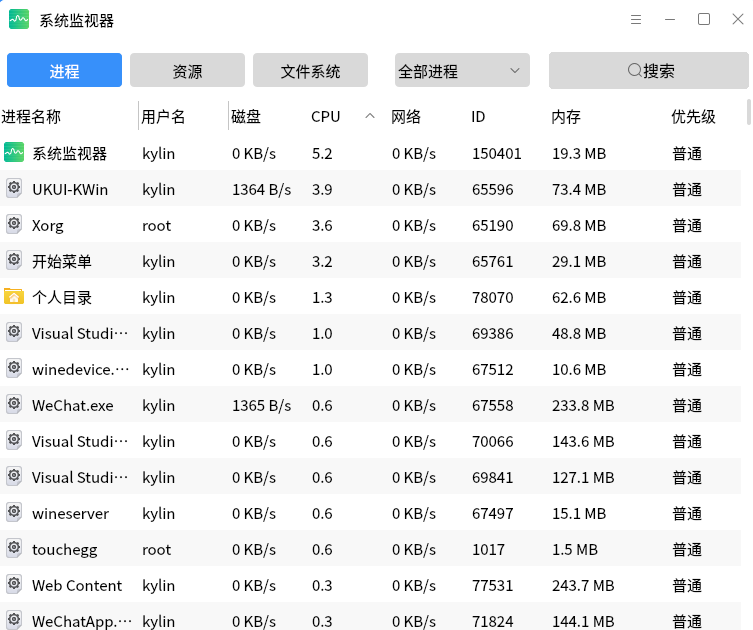
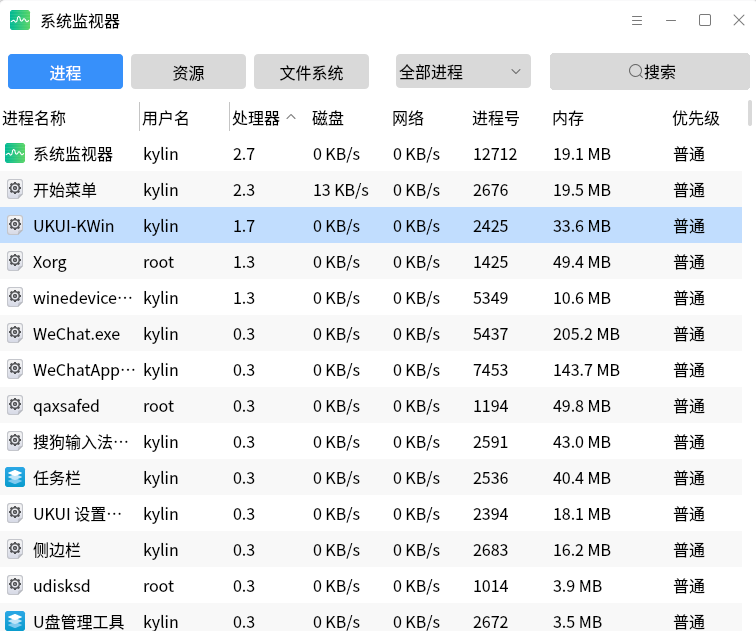
更新用户手册汉化内容

diff --git a/data/kylin-system-monitor/zh_CN/index.md b/data/kylin-system-monitor/zh_CN/index.md
@@ -21,17 +21,17 @@
 
 ![图 3 进程内容-big](image/3.png)
 
-统计显示所有启动了的进程，并显示他们的具体核心信息，如id，名称，启动用户，CPU占用率，内存，优先级，磁盘IO速率以及网络流向消耗等。并且可对进程执行杀死，结束以及继续等功能。
+统计显示所有启动了的进程，并显示他们的具体核心信息，如进程号，名称，启动用户，处理器占用率，内存，优先级，磁盘IO速率以及网络流向消耗等。并且可对进程执行杀死，结束以及继续等功能。
 
 <br>
 
 ## 资 源
-监测显示CPU，内存和交换空间以及系统网络流量信息。
+监测显示处理器，内存和交换空间以及系统网络流量信息。
 
 ![图 4 系统监视器资源内容-big](image/4.png)
 
-### CPU历史
-动态折线图统计CPU历史占用率，右上方标签显示实时CPU占用率数据。
+### 处理器历史
+动态折线图统计处理器历史占用率，右上方标签显示实时处理器占用率数据。
 
 ### 内存和交换空间历史
 动态折线图统计系统运行内存和交换空间历史占用总量，右上方标签显示实时占用量和总量。
